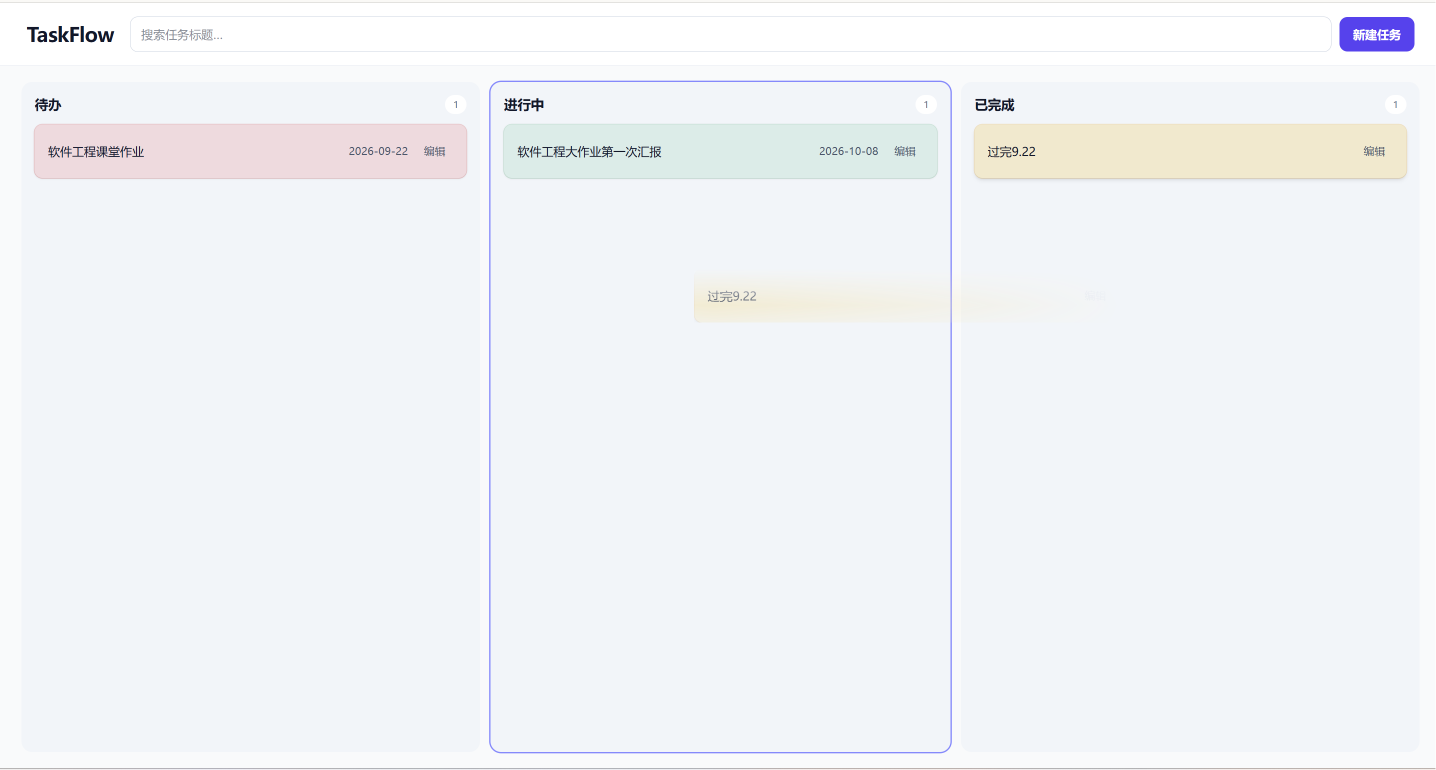
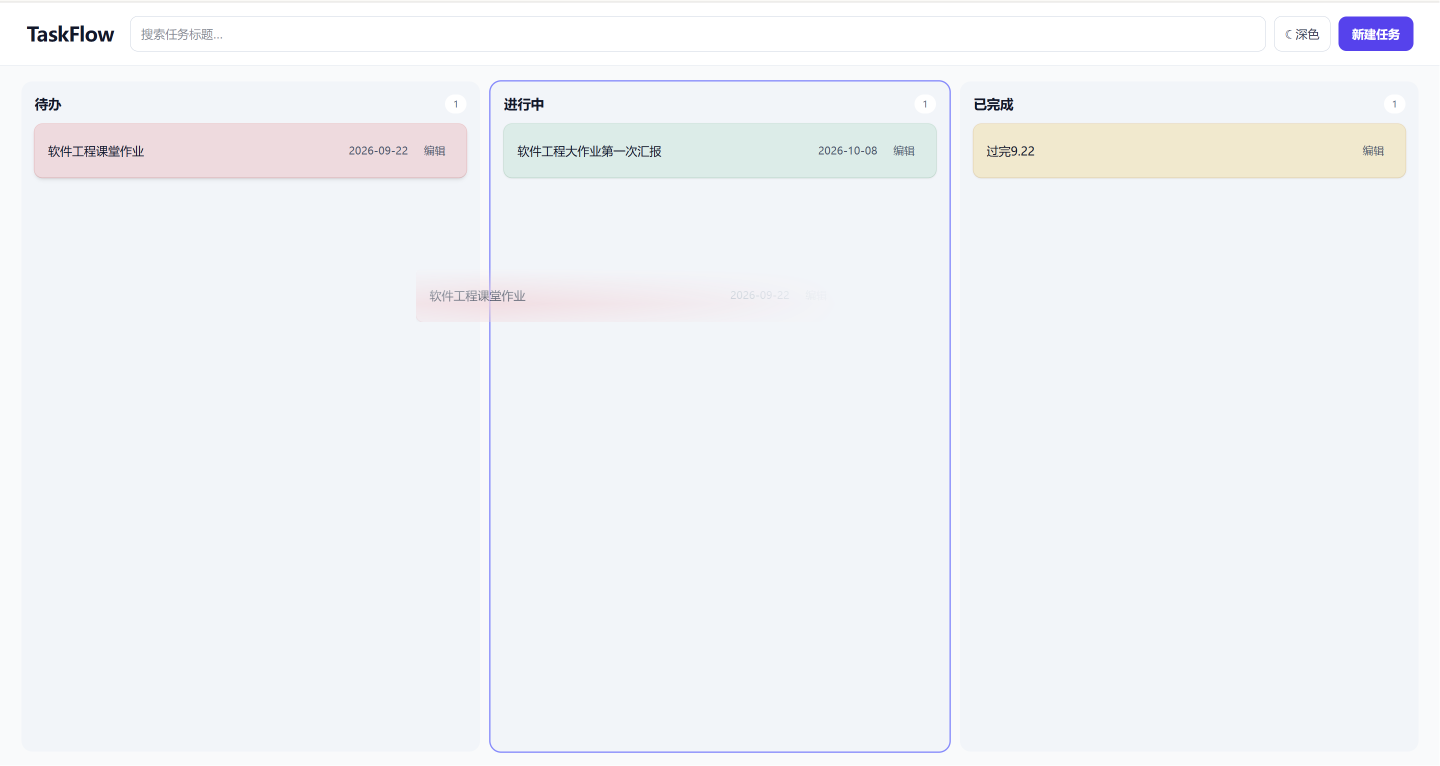
docs: refresh demos and archive prompts

diff --git a/docs/提示词.md b/docs/提示词.md
@@ -1,0 +1,161 @@
+# 用户提示词原文
+
+以下按时间顺序记录本项目中用户输入的文字提示。图片附件已归档在 `docs/运行功能展示`，不在本文中重复嵌入二进制内容。
+
+## 01
+
+```text
+假设你是一名软件工程师，使用Agentic开发实现一个完整的任务管理应用：
+
+技术选型：
+前端框架：Vue 3
+构建工具：Vite
+样式方案：Tailwind CSS
+数据存储：localStorage
+
+UI设计及功能需求：
+
+1. 页面为看板（三列卡片，占主体）+一个按键：深色模式切换（一键切换、记住选择）+ 一个长条任务搜索，在最上面
+2. 看板视图为三列卡片，代表三种状态：待办、进行中、已完成
+3. 每列中以扁的行卡片的形式显示任务，任务只显示标题和一个代表编辑的按钮
+4. 拖拽可以改变任务所在状态。
+5. 点开任务编辑按钮，显示标题，描述和优先级，标题必填、描述选填
+6. 优先级三档：高（红）、中（黄）、低（绿）
+
+本轮目标：确认项目骨架，整体结构以及目录结构，包括构建github仓库
+```
+
+## 02
+
+```text
+下面我要做什么才能运行检验
+```
+
+## 03
+
+```text
+9 packages are looking for funding 是什么意思
+```
+
+## 04
+
+```text
+ok，本轮任务：开发核心功能：任务列表与清单。先列出本轮计划
+```
+
+## 05
+
+```text
+对计划做如下修改：
+
+1. 加入拖拽功能
+2. 创建时间  改为 ddl时间，非必填
+3. 每个状态中任务优先级从高到低排序
+```
+
+## 06
+
+```text
+执行计划
+```
+
+## 07
+
+```text
+github仓库名是啥
+```
+
+## 08
+
+```text
+已创建，推送到git\@github.com:MinionXX611/TaskFlow\.git
+```
+
+## 09
+
+```text
+修改：
+
+1. 把优先级在主界面的显示改为，修改这个任务块的颜色（半透明红等），不显示”高优先级“
+2. 把ddl在主界面的显示放在任务块的最右
+```
+
+## 10
+
+```text
+DDL不是不显示而是放在任务块的右侧（编辑字段前面）
+```
+
+## 11
+
+```text
+本轮任务：数据持久化 ，若已完成，请反馈
+```
+
+## 12
+
+```text
+提交github，并做最后检查
+```
+
+## 13
+
+```text
+修改：
+
+1. 完成搜索功能
+2. 搜索时任务不能消失
+3. 检查前端交互逻辑
+4. 把整个界面等比例放大，宽度占满整个网页
+```
+
+## 14
+
+```text
+修改：
+
+1. 三个状态栏宽度占满浏览器界面
+2. 任务编辑窗口字号均调大一些
+```
+
+## 15
+
+```text
+修改：
+
+1. 三个状态栏长度占满浏览器界面
+2. 整体自豪调大一些
+```
+
+## 16
+
+```text
+全部推送至github
+```
+
+## 17
+
+```text
+1. 添加这几张图片至运行功能展示文件夹
+2. 新增深色模式：一键切换，记住选择  ，按键在搜索栏右边
+```
+
+## 18
+
+```text
+搜索成功时优先度为高的任务对应的高光框现在是红色，改为和其他两个优先度相同的蓝色
+```
+
+## 19
+
+```text
+1. 删除原运行功能展示文件，把这几张图放入新运行功能展示文件中
+2. 把所有我输入的提示词原封不动放入项目的提示词文档
+3. 上传github
+```
+
+## 20
+
+```text
+还有这个图片，也放入运行功能展示文件
+```

diff --git a/README.md b/README.md
@@ -2,13 +2,17 @@
 
 ## 运行功能展示
 
-| 任务编辑 | 看板总览 |
+| 浅色看板总览 | 编辑任务 |
 | --- | --- |
-| ![任务编辑](docs/运行功能展示/01-任务编辑.png) | ![看板总览](docs/运行功能展示/02-看板总览.png) |
+| ![浅色看板总览](docs/运行功能展示/01-浅色看板总览.png) | ![编辑任务](docs/运行功能展示/02-编辑任务.png) |
 
-| 拖拽任务 | 搜索任务 |
+| 拖拽任务 | 深色模式 |
 | --- | --- |
-| ![拖拽任务](docs/运行功能展示/03-拖拽任务.png) | ![搜索任务](docs/运行功能展示/04-搜索任务.png) |
+| ![拖拽任务](docs/运行功能展示/03-拖拽任务.png) | ![深色模式](docs/运行功能展示/04-深色模式.png) |
+
+| 搜索任务 |
+| --- |
+| ![搜索任务](docs/运行功能展示/05-搜索任务.png) |
 
 一个基于 Vue 3、Vite、Tailwind CSS 和 localStorage 的本地任务看板。
 
@@ -51,7 +55,7 @@ src/
   description: '可选描述',
   priority: 'high' | 'medium' | 'low',
   status: 'todo' | 'in-progress' | 'done',
-  createdAt: 'ISO 日期字符串'
+  deadline: 'YYYY-MM-DD（可选）'
 }
 ```
 
